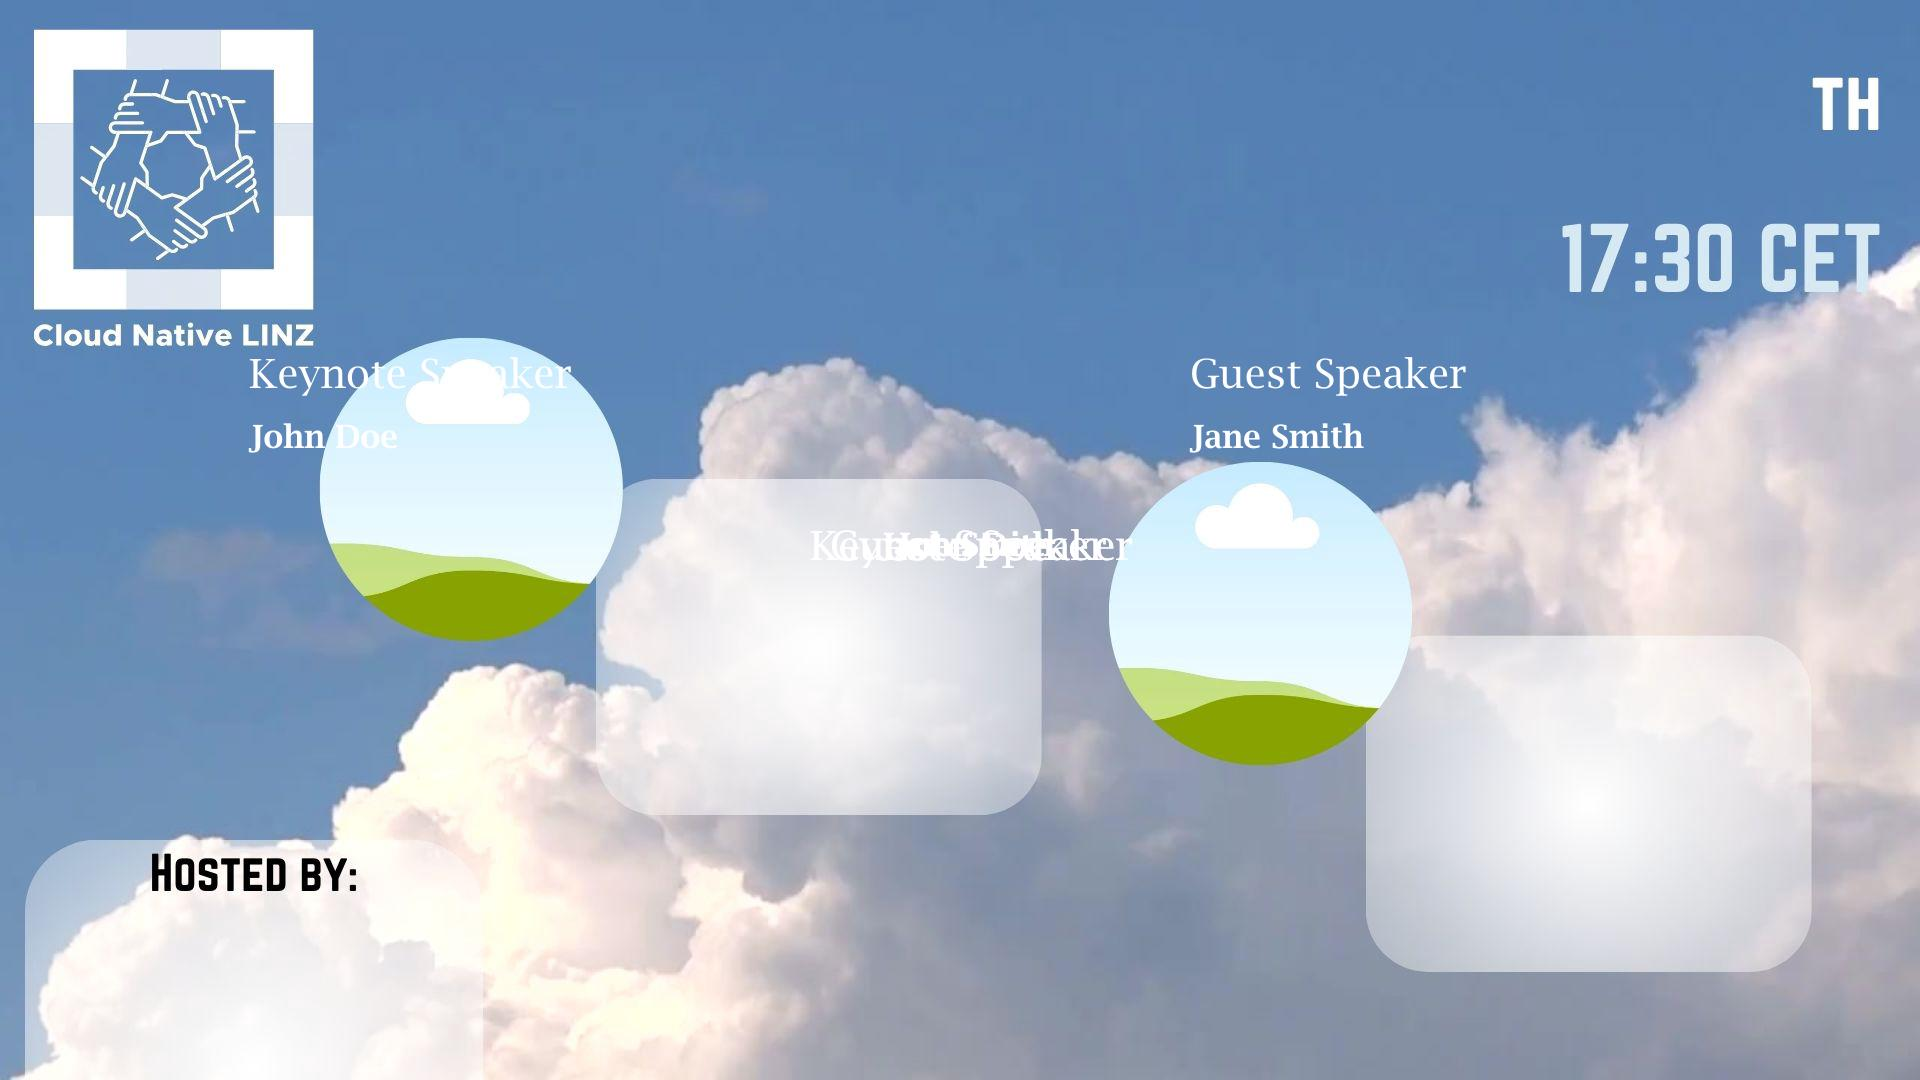
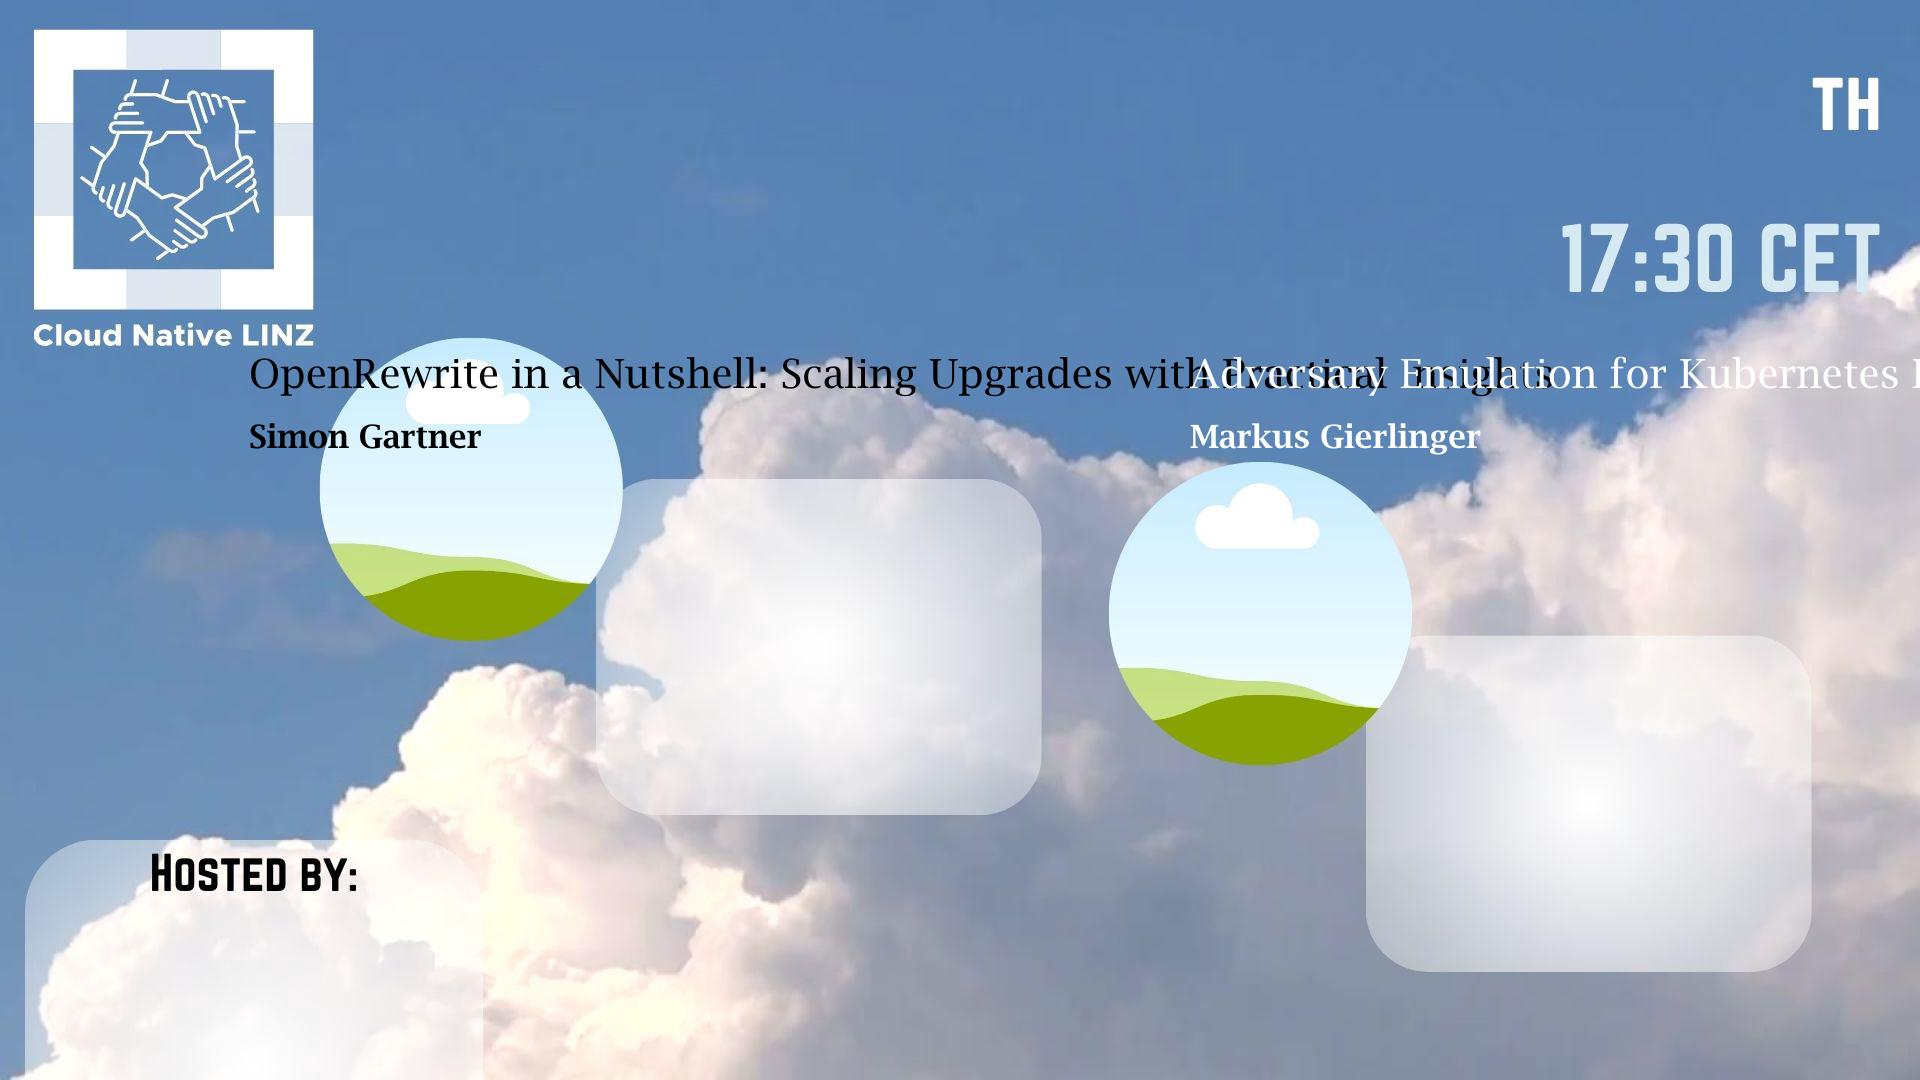
Update speaker details and enhance text rendering with color support

diff --git a/cmd/main.go b/cmd/main.go
@@ -15,17 +15,14 @@ import (
 	"go-image-generator/pkg/utils"
 
 	"golang.org/x/image/font/opentype"
-	"gopkg.in/yaml.v2"
 )
 
 func main() {
 	// Define command-line arguments
 	backgroundPath := flag.String("background", "", "Path to the background image")
 	overlayPaths := flag.String("overlays", "", "Comma-separated paths to overlay images")
-	text := flag.String("text", "", "Text to overlay on the image")
 	outputPath := flag.String("output", "output.jpg", "Path to save the final image")
-	fontPath := flag.String("font", "assets/fonts/LBRITE.TTF", "Path to the font file") // Default font file
-	templatePath := flag.String("template", "", "Path to the JSON template file")       // Template file
+	templatePath := flag.String("template", "", "Path to the JSON template file") // Template file
 
 	flag.Parse()
 
@@ -154,220 +151,6 @@ func main() {
 
 	// Create text renderer
 	textRenderer := renderer.TextRenderer{}
-	fontSize := 48.0 // Example font size
-	if *text != "" {
-		err = textRenderer.RenderText(rgbaFinalImage, *text, *fontPath, fontSize)
-		if err != nil {
-			log.Fatalf("Error rendering text: %v", err)
-		}
-	}
-
-	// Parse the template file if provided
-	if *templatePath != "" {
-		templateData, err := os.ReadFile(*templatePath)
-		if err != nil {
-			log.Fatalf("Error reading template file: %v", err)
-		}
-
-		var template struct {
-			Background struct {
-				Image    string `json:"image"`
-				Position struct {
-					X int `json:"x"`
-					Y int `json:"y"`
-				} `json:"position"`
-				Size struct {
-					Width  int `json:"width"`
-					Height int `json:"height"`
-				} `json:"size"`
-			} `json:"background"`
-			Speaker1title struct {
-				Font     string  `json:"font"`
-				FontSize float64 `json:"fontSize"`
-				Color    string  `json:"color"`
-				Position struct {
-					X int `json:"x"`
-					Y int `json:"y"`
-				} `json:"position"`
-				BoxWidth int    `json:"boxWidth"`
-				Text     string `json:"text"`
-			} `json:"speaker1title"`
-			Speaker1name struct {
-				Font     string  `json:"font"`
-				FontSize float64 `json:"fontSize"`
-				Color    string  `json:"color"`
-				Position struct {
-					X int `json:"x"`
-					Y int `json:"y"`
-				} `json:"position"`
-				BoxWidth int    `json:"boxWidth"`
-				Text     string `json:"text"`
-			} `json:"speaker1name"`
-			Speaker2title struct {
-				Font     string  `json:"font"`
-				FontSize float64 `json:"fontSize"`
-				Color    string  `json:"color"`
-				Position struct {
-					X int `json:"x"`
-					Y int `json:"y"`
-				} `json:"position"`
-				BoxWidth int    `json:"boxWidth"`
-				Text     string `json:"text"`
-			} `json:"speaker2title"`
-			Speaker2name struct {
-				Font     string  `json:"font"`
-				FontSize float64 `json:"fontSize"`
-				Color    string  `json:"color"`
-				Position struct {
-					X int `json:"x"`
-					Y int `json:"y"`
-				} `json:"position"`
-				BoxWidth int    `json:"boxWidth"`
-				Text     string `json:"text"`
-			} `json:"speaker2name"`
-		}
-		if err := json.Unmarshal(templateData, &template); err != nil {
-			log.Fatalf("Error parsing template JSON: %v", err)
-		}
-		// Use background from template if present
-		backgroundPathToUse := *backgroundPath
-		if template.Background.Image != "" {
-			backgroundPathToUse = template.Background.Image
-		}
-		background, err = utils.LoadImage(backgroundPathToUse)
-		if err != nil {
-			log.Fatalf("Error loading background image: %v", err)
-		}
-		rgbaBackground = image.NewRGBA(background.Bounds())
-		draw.Draw(rgbaBackground, rgbaBackground.Bounds(), background, image.Point{}, draw.Src)
-
-		// Read the last event from events.yml
-		eventsData, err := os.ReadFile("_data/events.yml")
-		if err != nil {
-			log.Fatalf("Error reading events.yml: %v", err)
-		}
-
-		// Parse YAML
-		type Talk struct {
-			Title   string `yaml:"title"`
-			Speaker string `yaml:"speaker"`
-		}
-		type Event struct {
-			Talks []Talk `yaml:"talks"`
-		}
-		var events []Event
-		err = yaml.Unmarshal(eventsData, &events)
-		if err != nil {
-			log.Fatalf("Error parsing events.yml: %v", err)
-		}
-		if len(events) == 0 {
-			log.Fatalf("No events found in events.yml")
-		}
-		lastEvent := events[len(events)-1]
-		if len(lastEvent.Talks) == 0 {
-			log.Fatalf("No talks found in last event")
-		}
-
-		// Simplify rendering logic and ensure no unused variables remain
-		wrappedLines1 := wrapText(template.Speaker1title.Text, template.Speaker1title.BoxWidth, loadFont(template.Speaker1title.Font), template.Speaker1title.FontSize)
-		for _, line := range wrappedLines1 {
-			textRenderer.RenderText(rgbaFinalImage, line, template.Speaker1title.Font, template.Speaker1title.FontSize)
-		}
-
-		wrappedLines2 := wrapText(template.Speaker1name.Text, template.Speaker1name.BoxWidth, loadFont(template.Speaker1name.Font), template.Speaker1name.FontSize)
-		for _, line := range wrappedLines2 {
-			textRenderer.RenderText(rgbaFinalImage, line, template.Speaker1name.Font, template.Speaker1name.FontSize)
-		}
-
-		wrappedLines3 := wrapText(template.Speaker2title.Text, template.Speaker2title.BoxWidth, loadFont(template.Speaker2title.Font), template.Speaker2title.FontSize)
-		for _, line := range wrappedLines3 {
-			textRenderer.RenderText(rgbaFinalImage, line, template.Speaker2title.Font, template.Speaker2title.FontSize)
-		}
-
-		wrappedLines4 := wrapText(template.Speaker2name.Text, template.Speaker2name.BoxWidth, loadFont(template.Speaker2name.Font), template.Speaker2name.FontSize)
-		for _, line := range wrappedLines4 {
-			textRenderer.RenderText(rgbaFinalImage, line, template.Speaker2name.Font, template.Speaker2name.FontSize)
-		}
-	}
-
-	// Replace loadTemplate with existing template loading logic
-	if *templatePath != "" {
-		templateData, err := os.ReadFile(*templatePath)
-		if err != nil {
-			log.Fatalf("Error reading template file: %v", err)
-		}
-		var template struct {
-			Speaker1title struct {
-				Text     string
-				Font     string
-				FontSize float64
-				Color    string
-				Position struct {
-					X int
-					Y int
-				}
-				BoxWidth int
-			}
-			Speaker1name struct {
-				Text     string
-				Font     string
-				FontSize float64
-				Color    string
-				Position struct {
-					X int
-					Y int
-				}
-				BoxWidth int
-			}
-			Speaker2title struct {
-				Text     string
-				Font     string
-				FontSize float64
-				Color    string
-				Position struct {
-					X int
-					Y int
-				}
-				BoxWidth int
-			}
-			Speaker2name struct {
-				Text     string
-				Font     string
-				FontSize float64
-				Color    string
-				Position struct {
-					X int
-					Y int
-				}
-				BoxWidth int
-			}
-		}
-		if err := json.Unmarshal(templateData, &template); err != nil {
-			log.Fatalf("Error parsing template JSON: %v", err)
-		}
-
-		for _, textField := range []struct {
-			Text     string
-			Font     string
-			FontSize float64
-			Color    string
-			Position struct {
-				X int
-				Y int
-			}
-			BoxWidth int
-		}{
-			template.Speaker1title,
-			template.Speaker1name,
-			template.Speaker2title,
-			template.Speaker2name,
-		} {
-			wrappedLines := wrapText(textField.Text, textField.BoxWidth, loadFont(textField.Font), textField.FontSize)
-			for _, line := range wrappedLines {
-				textRenderer.RenderText(rgbaFinalImage, line, textField.Font, textField.FontSize)
-			}
-		}
-	}
 
 	// --- Render speaker text in correct box positions and avoid overlaying ---
 	if *templatePath != "" {
@@ -446,7 +229,7 @@ func main() {
 		// Draw title
 		for i, line := range wrappedTitle1 {
 			y := speaker1BoxY + int(float64(i)*template.Speaker1title.FontSize*lineSpacing)
-			err := textRenderer.RenderTextWithPosition(rgbaFinalImage, line, template.Speaker1title.Font, template.Speaker1title.FontSize, speaker1BoxX, y)
+			err := textRenderer.RenderTextWithPositionAndColor(rgbaFinalImage, line, template.Speaker1title.Font, template.Speaker1title.FontSize, template.Speaker1title.Color, speaker1BoxX, y)
 			if err != nil {
 				log.Printf("Error rendering speaker1 title: %v", err)
 			}
@@ -455,7 +238,7 @@ func main() {
 		nameStartY := speaker1BoxY + int(float64(len(wrappedTitle1))*template.Speaker1title.FontSize*lineSpacing) + int(template.Speaker1name.FontSize*0.5)
 		for i, line := range wrappedName1 {
 			y := nameStartY + int(float64(i)*template.Speaker1name.FontSize*lineSpacing)
-			err := textRenderer.RenderTextWithPosition(rgbaFinalImage, line, template.Speaker1name.Font, template.Speaker1name.FontSize, speaker1BoxX, y)
+			err := textRenderer.RenderTextWithPositionAndColor(rgbaFinalImage, line, template.Speaker1name.Font, template.Speaker1name.FontSize, template.Speaker1name.Color, speaker1BoxX, y)
 			if err != nil {
 				log.Printf("Error rendering speaker1 name: %v", err)
 			}
@@ -469,7 +252,7 @@ func main() {
 		// Draw title
 		for i, line := range wrappedTitle2 {
 			y := speaker2BoxY + int(float64(i)*template.Speaker2title.FontSize*lineSpacing)
-			err := textRenderer.RenderTextWithPosition(rgbaFinalImage, line, template.Speaker2title.Font, template.Speaker2title.FontSize, speaker2BoxX, y)
+			err := textRenderer.RenderTextWithPositionAndColor(rgbaFinalImage, line, template.Speaker2title.Font, template.Speaker2title.FontSize, template.Speaker2title.Color, speaker2BoxX, y)
 			if err != nil {
 				log.Printf("Error rendering speaker2 title: %v", err)
 			}
@@ -478,7 +261,7 @@ func main() {
 		name2StartY := speaker2BoxY + int(float64(len(wrappedTitle2))*template.Speaker2title.FontSize*lineSpacing) + int(template.Speaker2name.FontSize*0.5)
 		for i, line := range wrappedName2 {
 			y := name2StartY + int(float64(i)*template.Speaker2name.FontSize*lineSpacing)
-			err := textRenderer.RenderTextWithPosition(rgbaFinalImage, line, template.Speaker2name.Font, template.Speaker2name.FontSize, speaker2BoxX, y)
+			err := textRenderer.RenderTextWithPositionAndColor(rgbaFinalImage, line, template.Speaker2name.Font, template.Speaker2name.FontSize, template.Speaker2name.Color, speaker2BoxX, y)
 			if err != nil {
 				log.Printf("Error rendering speaker2 name: %v", err)
 			}
@@ -494,7 +277,6 @@ func main() {
 	fmt.Println("Image generated successfully:", *outputPath)
 }
 
-// Move the `wrapText` function outside of the `main` function to fix the syntax error
 func wrapText(text string, maxWidth int, font *opentype.Font, fontSize float64) []string {
 	wrapped := []string{}
 	words := strings.Fields(text)

diff --git a/pkg/renderer/text_renderer.go b/pkg/renderer/text_renderer.go
@@ -109,6 +109,48 @@ func (tr *TextRenderer) RenderTextWithPosition(img *image.RGBA, text string, fon
 	return nil
 }
 
+func parseHexColor(s string) color.Color {
+	if len(s) == 7 && s[0] == '#' {
+		var rr, gg, bb int
+		fmt.Sscanf(s, "#%02x%02x%02x", &rr, &gg, &bb)
+		return color.RGBA{uint8(rr), uint8(gg), uint8(bb), 255}
+	}
+	return color.RGBA{255, 255, 255, 255} // fallback to white
+}
+
+func (tr *TextRenderer) RenderTextWithPositionAndColor(img *image.RGBA, text string, fontPath string, fontSize float64, colStr string, x int, y int) error {
+	col := parseHexColor(colStr)
+	// ...existing code for loading font and face...
+	fontBytes, err := ioutil.ReadFile(fontPath)
+	if err != nil {
+		return fmt.Errorf("failed to load font file: %w", err)
+	}
+	parsedFont, err := opentype.Parse(fontBytes)
+	if err != nil {
+		return fmt.Errorf("failed to parse font: %w", err)
+	}
+	face, err := opentype.NewFace(parsedFont, &opentype.FaceOptions{
+		Size: fontSize,
+		DPI:  72,
+	})
+	if err != nil {
+		return fmt.Errorf("failed to create font face: %w", err)
+	}
+	defer face.Close()
+	point := fixed.Point26_6{
+		X: fixed.I(x),
+		Y: fixed.I(y),
+	}
+	d := &font.Drawer{
+		Dst:  img,
+		Src:  image.NewUniform(col),
+		Face: face,
+		Dot:  point,
+	}
+	d.DrawString(text)
+	return nil
+}
+
 func SaveImage(img *image.RGBA, filename string) error {
 	outFile, err := os.Create(filename)
 	if err != nil {
